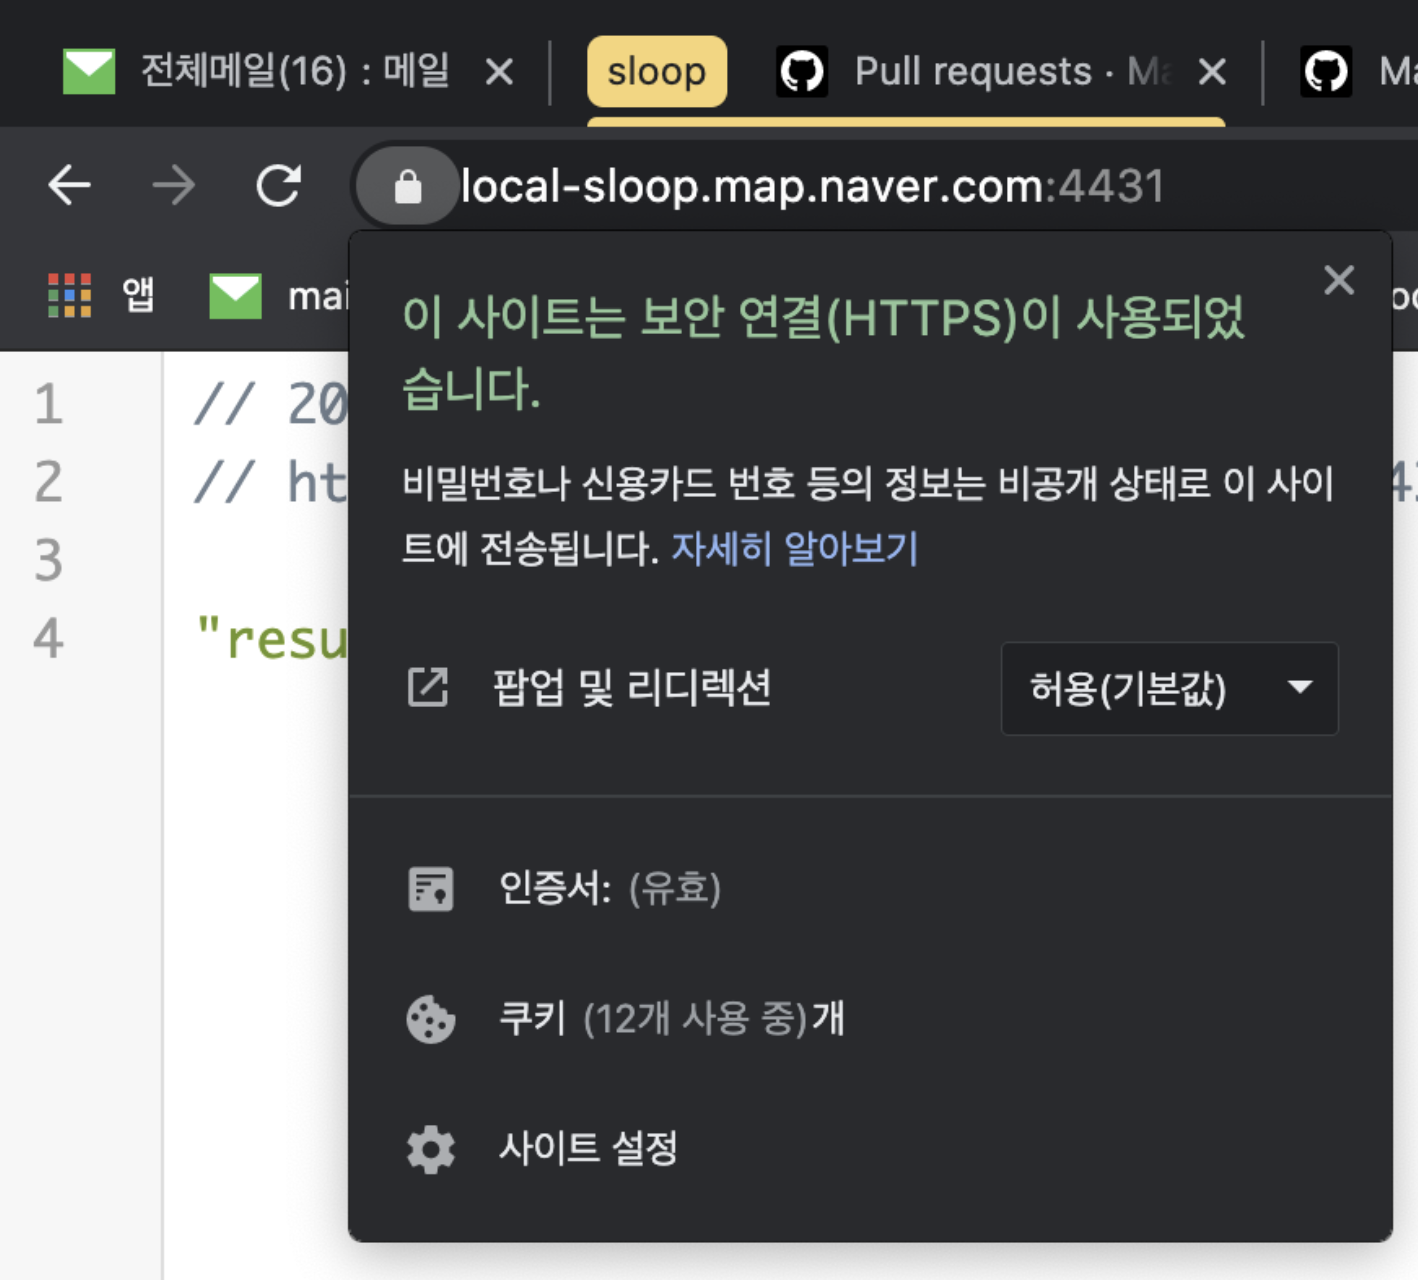
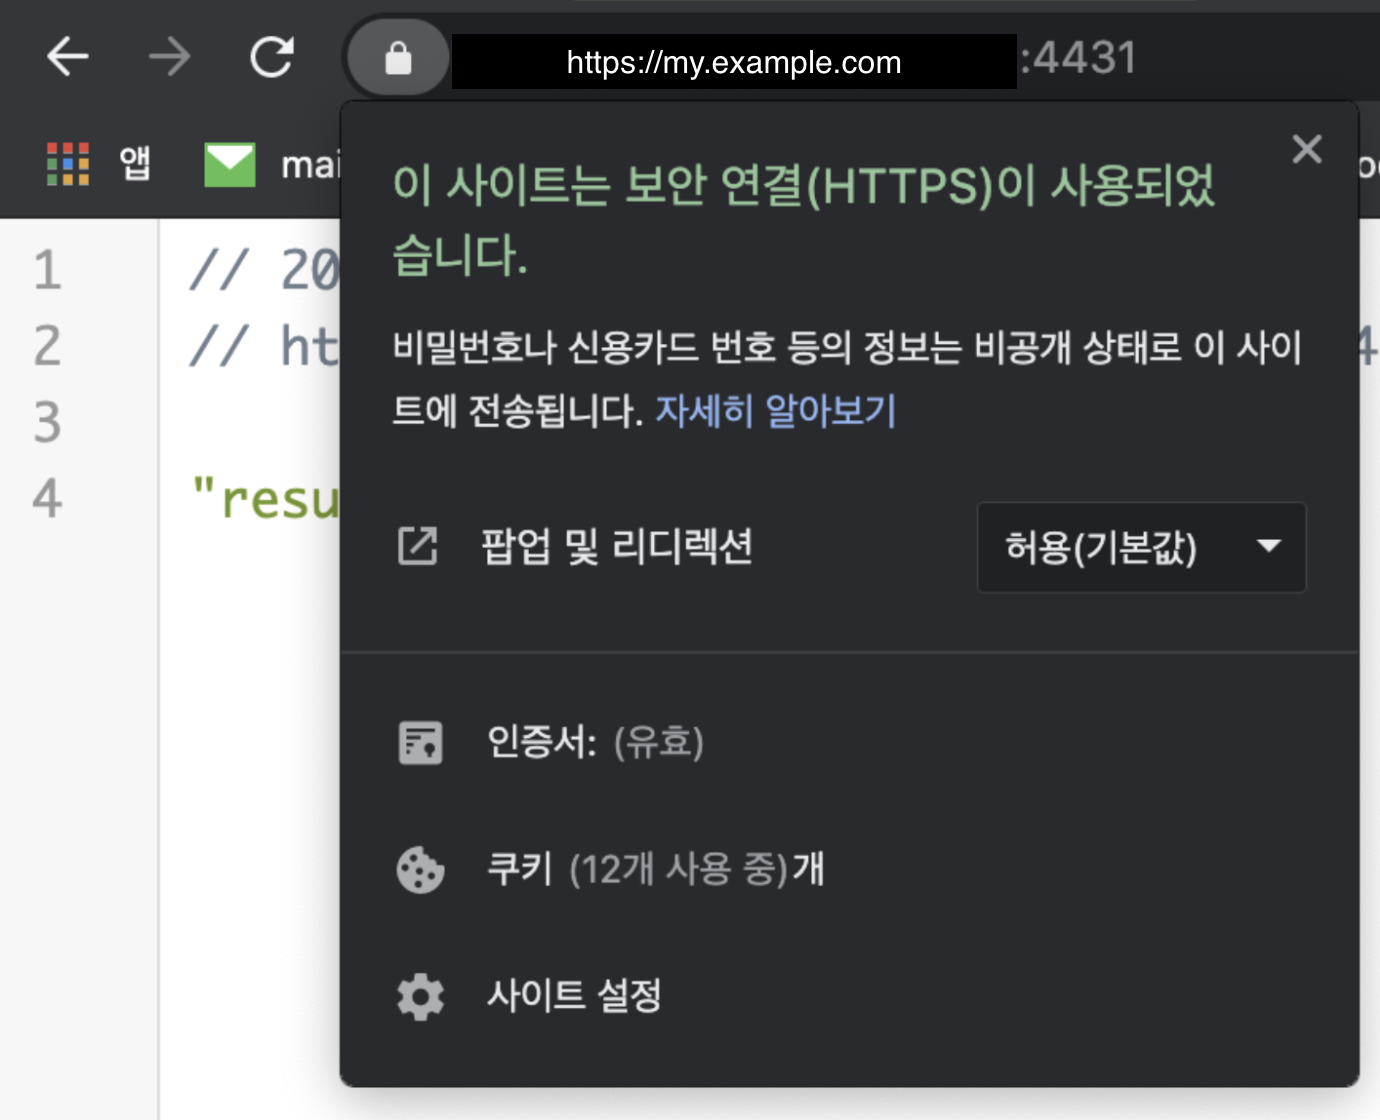
Fix 2021-02-04-SSL blog post

diff --git a/work/jekyll-theme-next/_posts/2021-02-04-SSL, Https 설정 in Node js & webpack dev server.md b/work/jekyll-theme-next/_posts/2021-02-04-SSL, Https 설정 in Node js & webpack dev server.md
@@ -292,7 +292,7 @@ openssl pkcs12 -export -out certificate.pfx -inkey privateKey.key -in certificat
 
 - 사실상 위의 openssl을 사용하여, pem -> key 추출 등의 여러 명령어를 사용하여, node에서 사용가능하게 변경하면 된다.
     - 각 nginx ssl환경에 맞는 파일을 -> node 환경에서 사용가능하게 변경 후 사용하면됨...
-- 여기서는 map.naver.com에서 사용하는 nginx용 인증서를 node용으로 바꾸는 부분만 간략하게 다룬다
+- 여기서는 my.example.com에서 사용하는 nginx용 인증서를 node용으로 바꾸는 부분만 간략하게 다룬다
 
 **nginx인증서**
 
@@ -344,11 +344,11 @@ https.createServer(options, app).listen(PORT, () => {
 
 - 서버 구동됨
 
-![](../assets/post-images/2021-02-04-SSL/01.png)
+![](../../assets/post-images/2021-02-04-SSL/01.png)
 
 - 접속시 정상 동작
 
-![](../assets/post-images/2021-02-04-SSL/02.png)
+![](../../assets/post-images/2021-02-04-SSL/02.png)
 
 - webpack-dev-server
 
@@ -370,6 +370,12 @@ devServer: {
         compress: true,
       },
 ```
+
+## **추가 내용**
+
+- webpack-dev-server의 https 설정은, 그 설정 그대로 node의 설정에 들어간다고 생각해도 된다.
+- node 에서 ```passphrase: 'sample'```와 같이 비번(passphrase)을 직접 입력하면, 굳이 pem 으로 (pass추출or합산) 하지 않아도 동작 가능하다.
+- 다만 이 글에서는 코드내에 passwd 노출이 싫었고, 각 파일들 pem, crt, key을 추출 합산 하는게 가능하다는걸 소개하고 싶었다. 각 개발 환경에 맞게 응용해서 쓰면 될꺼 같다.
 
 ## **좀더알기**
 
